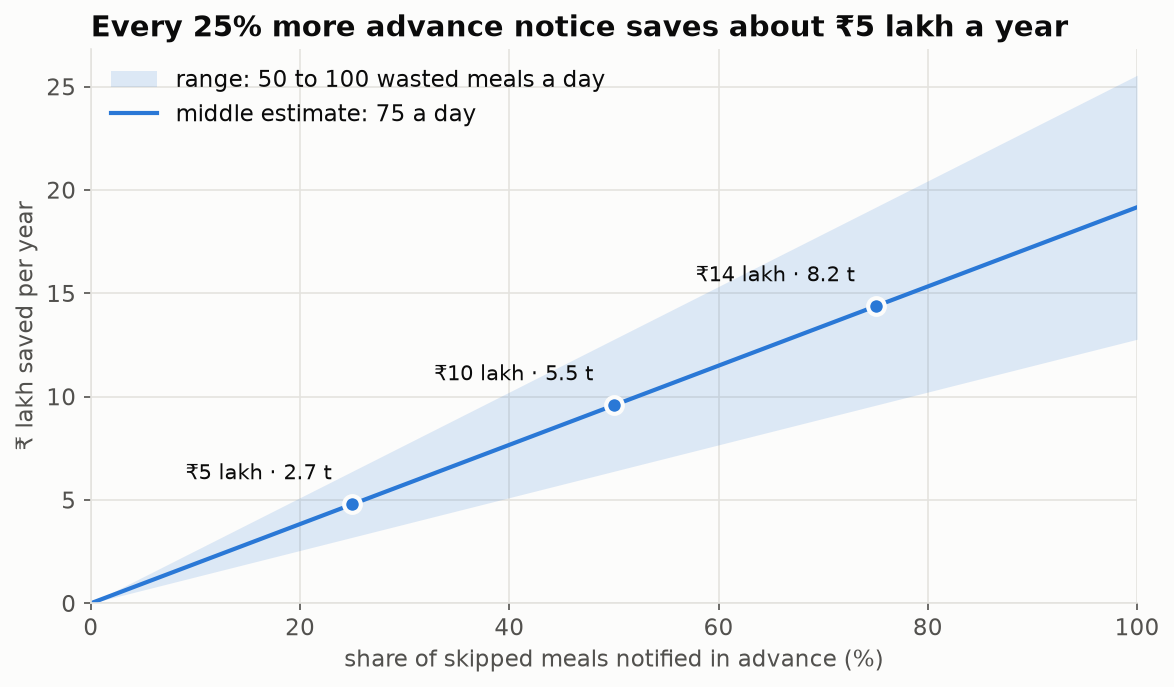
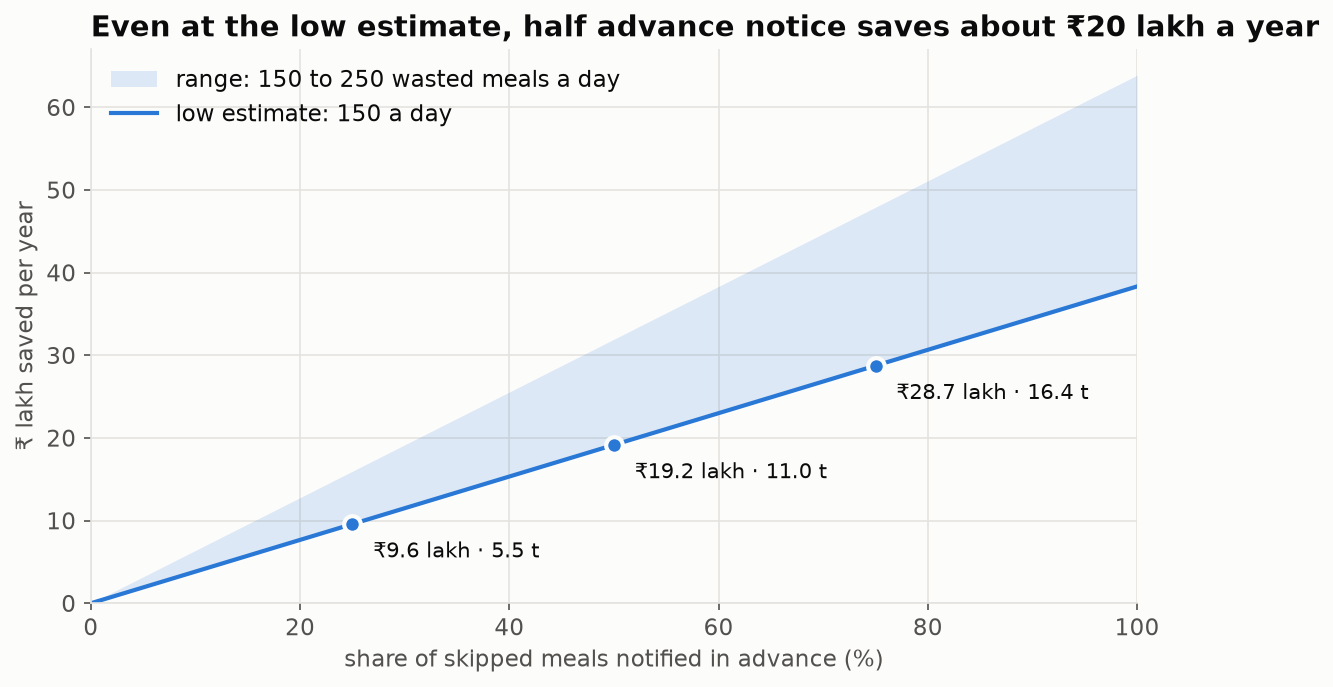
Mess estimate: 150-250 no-show meals a day; headline about Rs 20 lakh and 11 t at the low end with half notice

diff --git a/docs/index.html b/docs/index.html
@@ -234,7 +234,7 @@ footer ul { margin: 0; padding-left: 18px; }
     <div class="calc">
       <div class="sliders">
         <div class="slider"><label for="s-meals">Meals cooked for no-shows, per day <output id="o-meals"></output></label>
-          <input id="s-meals" type="range" min="10" max="1000" step="5" value="75"></div>
+          <input id="s-meals" type="range" min="10" max="1000" step="5" value="150"></div>
         <div class="slider"><label for="s-rate">Share of those meals notified in advance <output id="o-rate"></output></label>
           <input id="s-rate" type="range" min="0" max="100" step="5" value="50"></div>
         <div class="slider"><label for="s-days">Days the mess runs per year <output id="o-days"></output></label>
@@ -577,7 +577,7 @@ footer ul { margin: 0; padding-left: 18px; }
   // ---------- Calculator ----------
   const S = id => document.getElementById(id);
   const MESS_STUDENTS = 1300, MEALS_PER_STUDENT = 4;
-  const defaults = { "s-meals": 75, "s-rate": 50, "s-days": 365, "s-kg": 0.4, "s-rs": 70 };
+  const defaults = { "s-meals": 150, "s-rate": 50, "s-days": 365, "s-kg": 0.4, "s-rs": 70 };
   function renderCalc() {
     const meals = +S("s-meals").value, rate = +S("s-rate").value / 100, days = +S("s-days").value;
     const kg = +S("s-kg").value, rs = +S("s-rs").value;
@@ -589,7 +589,7 @@ footer ul { margin: 0; padding-left: 18px; }
     const saved = meals * days * rate;
     const lakh = saved * rs / 100000;
     S("r-rs").textContent = lakh >= 100 ? `₹${fmt(lakh / 100, 2)} crore` : `₹${fmt(lakh, 1)} lakh`;
-    S("r-t").textContent = `${fmt(saved * kg / 1000, 1)} tonnes`;
+    S("r-t").textContent = `${fmt(saved * kg / 1000 + 1e-9, 1)} tonnes`;  // +1e-9 so 10.95 rounds up
     S("r-meals").textContent = fmt(saved);
 
     // Whole-mess context: 1,300 students x 4 meals a day, at the same cost and days as the sliders

diff --git a/README.md b/README.md
@@ -33,9 +33,9 @@ values are removed. Food waste at home is a habit-and-planning problem everywher
 
 **4. A single hostel mess matters.** The IIM Bangalore mess cooks about **5,200 meals a day**
 (1,300 students × 4 meals), roughly **₹13.3 crore of food a year** at ₹70 a meal. On rough estimates
-(50–100 of those meals cooked for students who don't turn up, 0.4 kg per meal), it could waste
-**7–15 tonnes of food, worth about ₹13–26 lakh, a year**. If half of skipped meals were notified in advance, about
-**₹10 lakh and 5.5 tonnes a year** could be saved (middle estimate).
+(150–250 of those meals cooked for students who don't turn up, 0.4 kg per meal), it could waste
+**22–37 tonnes of food, worth about ₹38–64 lakh, a year**. Even at the low end, if half of skipped meals
+were notified in advance, about **₹20 lakh and 11 tonnes a year** could be saved.
 
 ![Savings from advance notice](charts/04_mess_savings_scenarios.png)
 
